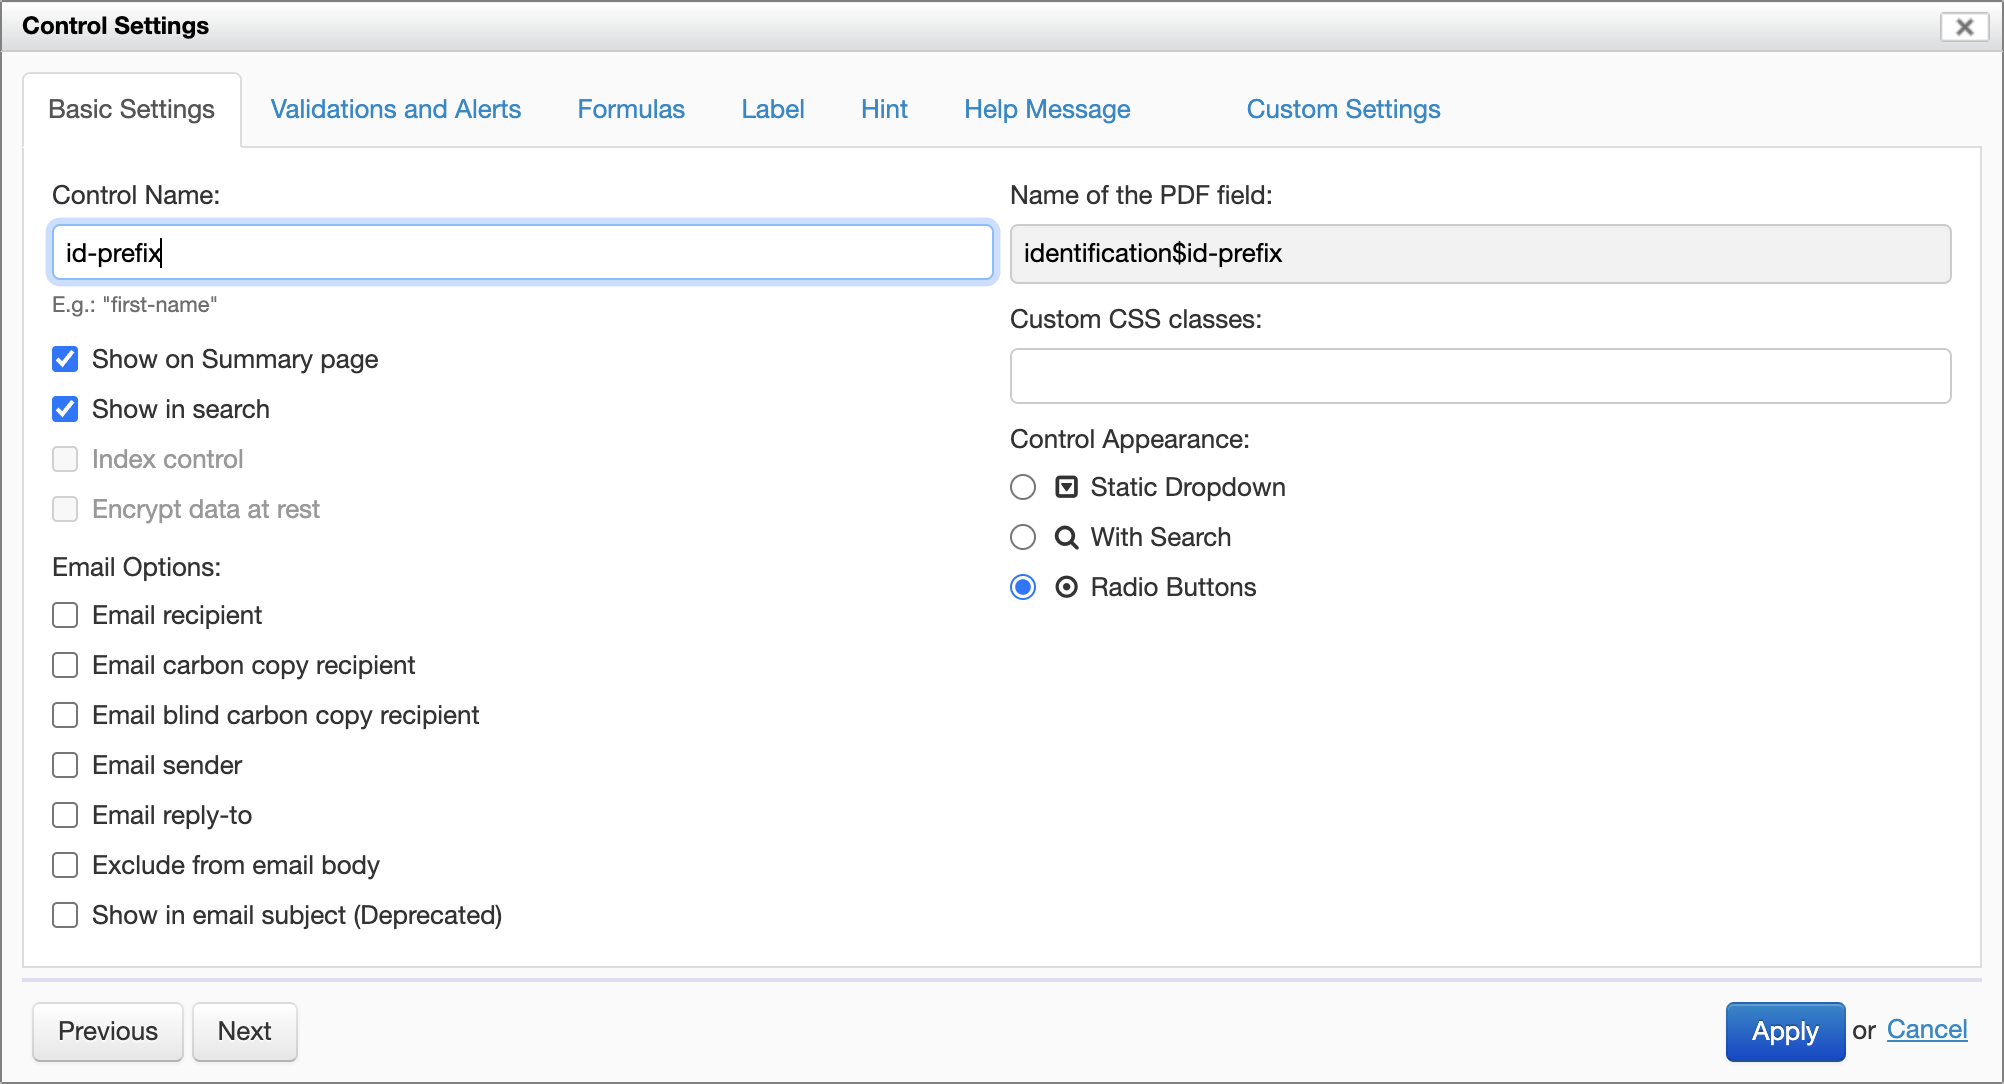
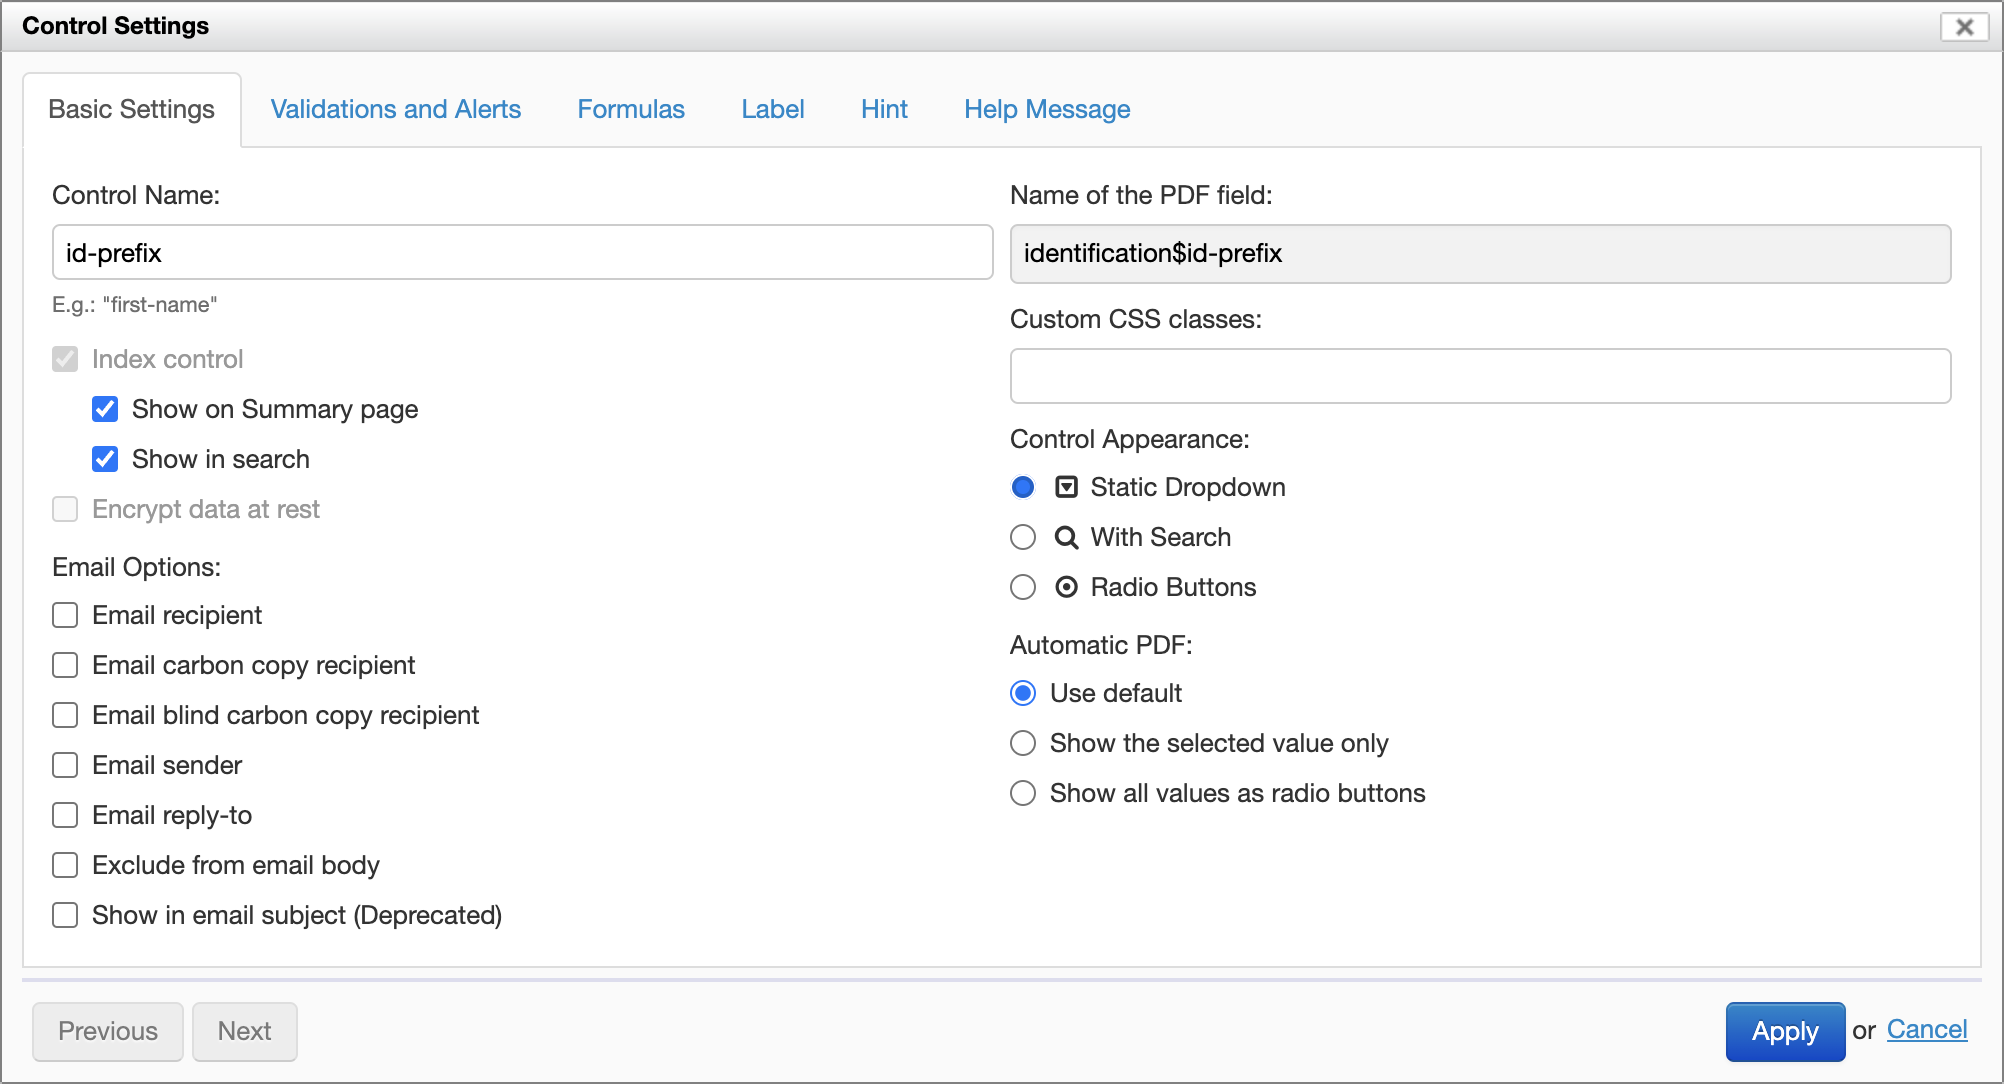
WIP 2021.1 release notes

diff --git a/release-notes/orbeon-forms-2021.1.md b/release-notes/orbeon-forms-2021.1.md
@@ -57,7 +57,7 @@ The export feature produces Excel files that look like this:
 
 For more details:
 
-- [blog] post(https://blog.orbeon.com/2021/09/excel-export-and-import.html)
+- [blog post](https://blog.orbeon.com/2021/09/excel-export-and-import.html)
 
 ### XML format for import/export
 
@@ -95,7 +95,7 @@ From the user's perspective, this works almost exactly like the "Test" button wh
 
 [screenshot]
 
-As of Orbeon Forms 2021.1, there are limitations:
+As of Orbeon Forms 2021.1, there are limitations, which is why we consider the feature still experimental:
  
 - Services do not run offline and will return errors.
 - There is no Summary page, Home page, or navigation between pages.
@@ -115,17 +115,17 @@ A new, still experimental feature allows you to inspect formulas. You access it 
 
 This allows you to see, in a table, the following formulas used in the form for:
 
-- Initial values
-- Calculated values
+- Initial Value
+- Calculated Value
 - Visibility
 - Required
 - Read-Only
 
-![Example showing Calculated Value dependencies](/form-builder/images/inspect-formulas-example.png)
+The following example show dependencies between "Calculated Value" formulas and controls. A color scheme indicates the dependency relationships between controls via formulas.
 
-In addition, the dependencies between these formulas is shown with colors so that, for complex forms, you can know which values impact a formula, and the other way around.
+![Example showing "Calculated Value" dependencies](/form-builder/images/inspect-formulas-example.png)
 
-Inspect Formulas: first phase #4825
+We consider this features still experimental, but only because it is still fairly basic! However, it is still useful and we hope to improve it in newer versions of Orbeon Forms.
 
 ### Actions Editor
 
@@ -162,49 +162,81 @@ For more details:
 
 ## Other
 
-Form Builder: option to index fields separately from Summary page #5018
-Add double type again as a user choice #4847
-Dropdowns to support hint on items #5054
+### Option to index fields separately from Summary page
 
-PDF: Option to show all dropdown control values in automatic PDF #5026
+Until now, Orbeon Forms would index fields marked as "Show on Summary page" or "Show in search" in the "Control Settings" dialog.
+
+It is now possible to tell Form Runner to index fields independently from whether they show in the Summary page. This allows indexed fields to be searchable via the [Search API](/form-runner/api/persistence/search.md).
+
+![Number of grid rows](/form-builder/images/control-settings.png)
+
+### Add double type again as a user choice
+
+The double-precision floating-point type was removed a long time ago in the list of selectable types in the "Control Settings" dialog. The reason for this was that for the vast majority of cases, this is not the appropriate type (but "Integer" or "Decimal" are), and users would often select the incorrect type and then get rounding errors in fields such as the Currency field.
+
+However, for scientific calculations, for example using `cos()` and other functions, a floating-point type is appropriate. For this reason, we have reintroduced this type in the list of selectable types, with a name that we hope is as clear as possible. 
+
+![Built-in Types](/form-builder/images/built-in-types.png)
+
+### Dropdowns to support hint on items
+
+xxx #5054
+
+### PDF: Option to show all dropdown control values in automatic PDF #5026
+
+### 
+
 Option not to run calculation in readonly modes #3672
 Background API: ability to disable calculations #4977
 
 
-XForms 2.0:
+### XForms 2.0 support
 
 - xforms-dialog-shown/xforms-dialog-hidden #5078
 - Implement xf:parse() #3699
 
-A11y:
+### Accessibility
 
 - Announce new error messages in the error summary #4795
-- Avoid invalid role="navigation" on <ul> #5079
+- Avoid invalid `role="navigation"` on `<ul>` #5079
 - Improve reading of labels for date-time control #4831
 
-New functions:
+### New XPath functions
 
 - XPath function returning whether a form is embedded #4976
 - Add XPath function to tell whether the form is running in the background #4958
 - Function to access the value of a control within a section template #2471
 - Form Runner function returning whether we are editing a draft #5060
 
-API:
+### API improvements
 
 - Form metadata API: ability to filter by modified-since date #4987
 
-Flat view to support form versions #5037
+### Flat view to support form versions
 
-Home page: ability to delete (unpublish) published form definition #3597
+xxx #5037
+
+### Home page: ability to delete (unpublish) published form definition
+
+xxx #3597
+
+### Summary page improvements
 
 Summary page: ability to show the created-by/last-modified-by users #4986
 Summary/Home to show timestamps in a configurable timezone #1101\
 
+### xxx
+
 send action to support a workflow-stage parameter #5070
+
+### xxx
 
 Allow section templates to communicate when included in same form #5005
 
+### xxx
 Section template: show name of library/section #1700
+
+### xxx
 
 New filter to log the body of incoming requests #5098
 
